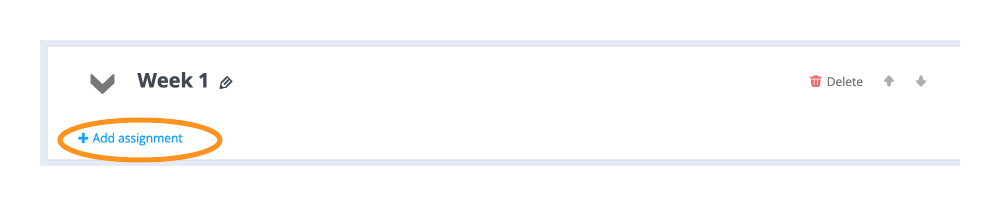
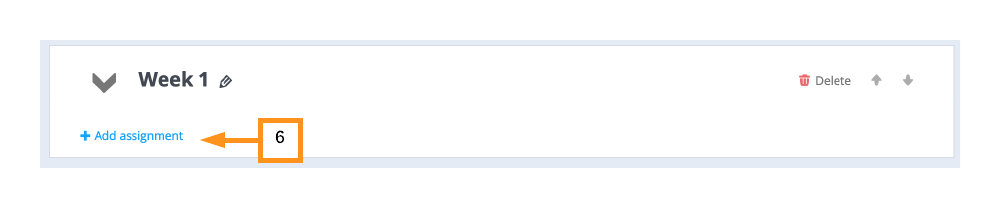
Revamp complete

Changed region(s): [[0.031, 0.233, 0.961, 0.8155], [0.093, 0.3495, 0.248, 0.466]]

diff --git a/.guides/content/Adding-instructional-materials-4f21.md b/.guides/content/Adding-instructional-materials-4f21.md
@@ -1,33 +1,58 @@
 ## Assignments
-In Codio, a teaching assignment is a project that has been assigned to a course. The scope of an assignment is entirely up to you. It could be a project assignment, a tutorial  built using Guides or an assessment.
+In Codio, a teaching assignment is a project that has been assigned to a course. The scope of an assignment is entirely up to you. It could be a project assignment, a tutorial  built using Guides, or an assessment.
  
  
 ### Assign a project
 You can assign the project we created earlier or use a Codio supplied project. 
 
+## Add a Module
+1. With the course selected, click on the Assignments tab at the top of the page. The list will be empty at this point.
+2. Click the blue pencil in the upper right corner to switch to edit mode.
 
-- With the course selected, click on the Assignments tab at the top of the page. The list will be empty at this point.
-- Click the blue pencil in the upper right corner to switch to edit mode.
-- Now click the **+** button in the top left.
-- Select **Empty Module**, type **Week 1** and click **Add Module**.
-- In your newly created module click **Add Assignment** and then select **Project Based**
+![.guides/img/firstAssignment](.guides/img/firstAssignment.png)
+
+3. Now click the **+** button in the top left and select **Empty Module**.
+
+4. Type "Week 1"
+
+5. Click **Add Module**.
+![.guides/img/addModule](.guides/img/addModule.png)
+
+## Add an Assignment
+6. In your newly created module click **Add Assignment** and then select **Project Based**
 ![](.guides/img/addAssignment.png)
-- Use the project you created earlier in this guide. For the **Starting Point** select **Click here** to use an existing project
+7. Use the project you created earlier in this guide. For the **Starting Point** select **Click here** to use an existing project
+![.guides/img/startingPoint](.guides/img/startingPoint.png)
 
-- Click **Fork Project**. The name of the project you created earlier should appear in the **FORK FROM** field.
-![](.guides/img/starting-point.png)
-![](.guides/img/fork-project.png)
+8. Click **Fork Project**. 
+
+
+9. The name of the project you created earlier should appear in the **FORK FROM** field.
+
+
+![.guides/img/forkProject](.guides/img/forkProject.png)
 
 
 Codio takes a snapshot of your source project, ready for the students to clone when they start the Unit. Changes you make to the source project will not be reflected automatically in the student Unit.
 
 
-- You can change the name of the assignment (by default it will be the name of your project with 'fork' appended) and add a description if you wish.
-- Click the **Create** button and the assignment will be added to the course module in draft mode.
+10. You can change the name of the assignment (by default it will be the name of your project with 'fork' appended) and add a description if you wish.
 
 
-- Click **Publish** to make the assignment visible to your students.
 
-![](.guides/img/publish.png)
+11. Click the **Create** button and the assignment will be added to the course module in draft mode.
+
+![.guides/img/nameFork](.guides/img/nameFork.png)
+
+After selecting **Create** the Guide will open.
+
+12. Click the Codio **C** to return to course editing.
+
+![.guides/img/codioC](.guides/img/codioC.png)
+
+## Publish your Assignment
+13. Click **Publish** to make the assignment visible to your students.
+
+![.guides/img/publish](.guides/img/publish.png)
 
 

diff --git a/.guides/content/Adding-teaching-assistants-5d7c.md b/.guides/content/Adding-teaching-assistants-5d7c.md
@@ -1,9 +1,13 @@
 
 You can add additional teaching assistants for a selected course by sending an email invitation or if they are already members of the organisation, locating them and adding them to the course.
 
-- Select the **Admin** tab near the top of the page
-- Locate the **Teachers** area and press the **Edit** link then the **Add Teacher** link
-- If they are already members in the organisation, find them in the **Add Teacher from Organization** area and press the **Done** button once you are ready to add them
-  - If they are not existing teachers in the organisation (or they may be TA's and a student in another course), you can send them an email invitation to join the course as a teacher
+1. Select the **Admin** tab near the top of the page
+2. Locate the **Teachers** area and press the **Edit** and then the **Add Teacher** link
+
+![.guides/img/AddTA](.guides/img/AddTA.png)
+ 
+3. If they are already members in the organisation, find them in the **ADD USER FROM ORGANIZATION AS TEACHER** area and press the **Done** button once you are ready to add them
+
+4. If they are not existing teachers in the organisation (or they may be TA's and a student in another course), you can send them an email invitation to join the course as a teacher
 
 ![.guides/img/addClassTeacher](.guides/img/addClassTeacher.png)

diff --git a/.guides/content/Inviting-your-students-f7b2.md b/.guides/content/Inviting-your-students-f7b2.md
@@ -1,11 +1,19 @@
 Once you have completed creating your course, you can provide your students with access to the materials by asking them to join the class.
 
 ## The Course Invite URL
-The course invite url can be used to sign up for a course.
+The student invite URL can be used to sign up for a course.
 
-- Select the course.
-- Select the **Admin** tab. 
-- Look for **Course Invite URL** and copy the url to the clipboard.
-- You can now share this url to invite others to your course.
+1. Select the course you want to share.
 
-==Is this enough information?==
+![.guides/img/selectCourse](.guides/img/selectCourse.png)
+
+2. Select the **Admin** tab.
+
+
+![.guides/img/selectAdmin](.guides/img/selectAdmin.png)
+3. Click on the clipboard in the **Student invite URL** field to copy the URL to the clipboard.
+
+![.guides/img/studentInviteURL](.guides/img/studentInviteURL.png)
+
+You can now share this URL to invite others to your course.
+
